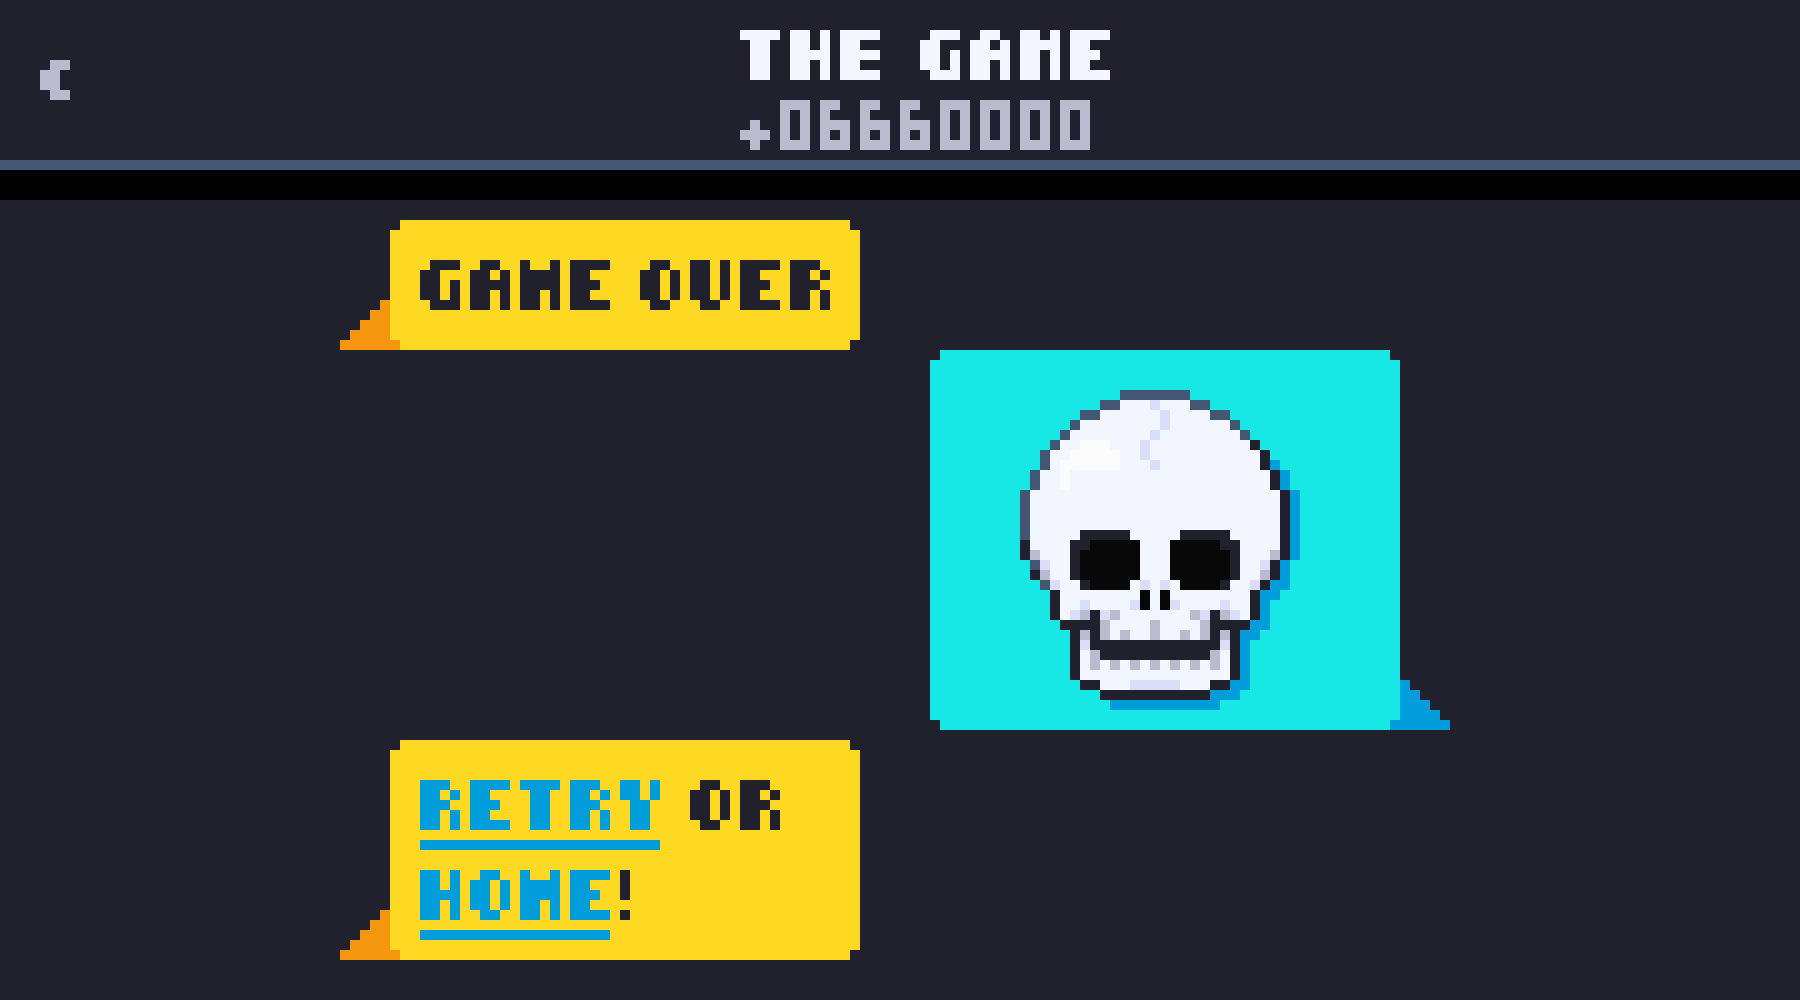
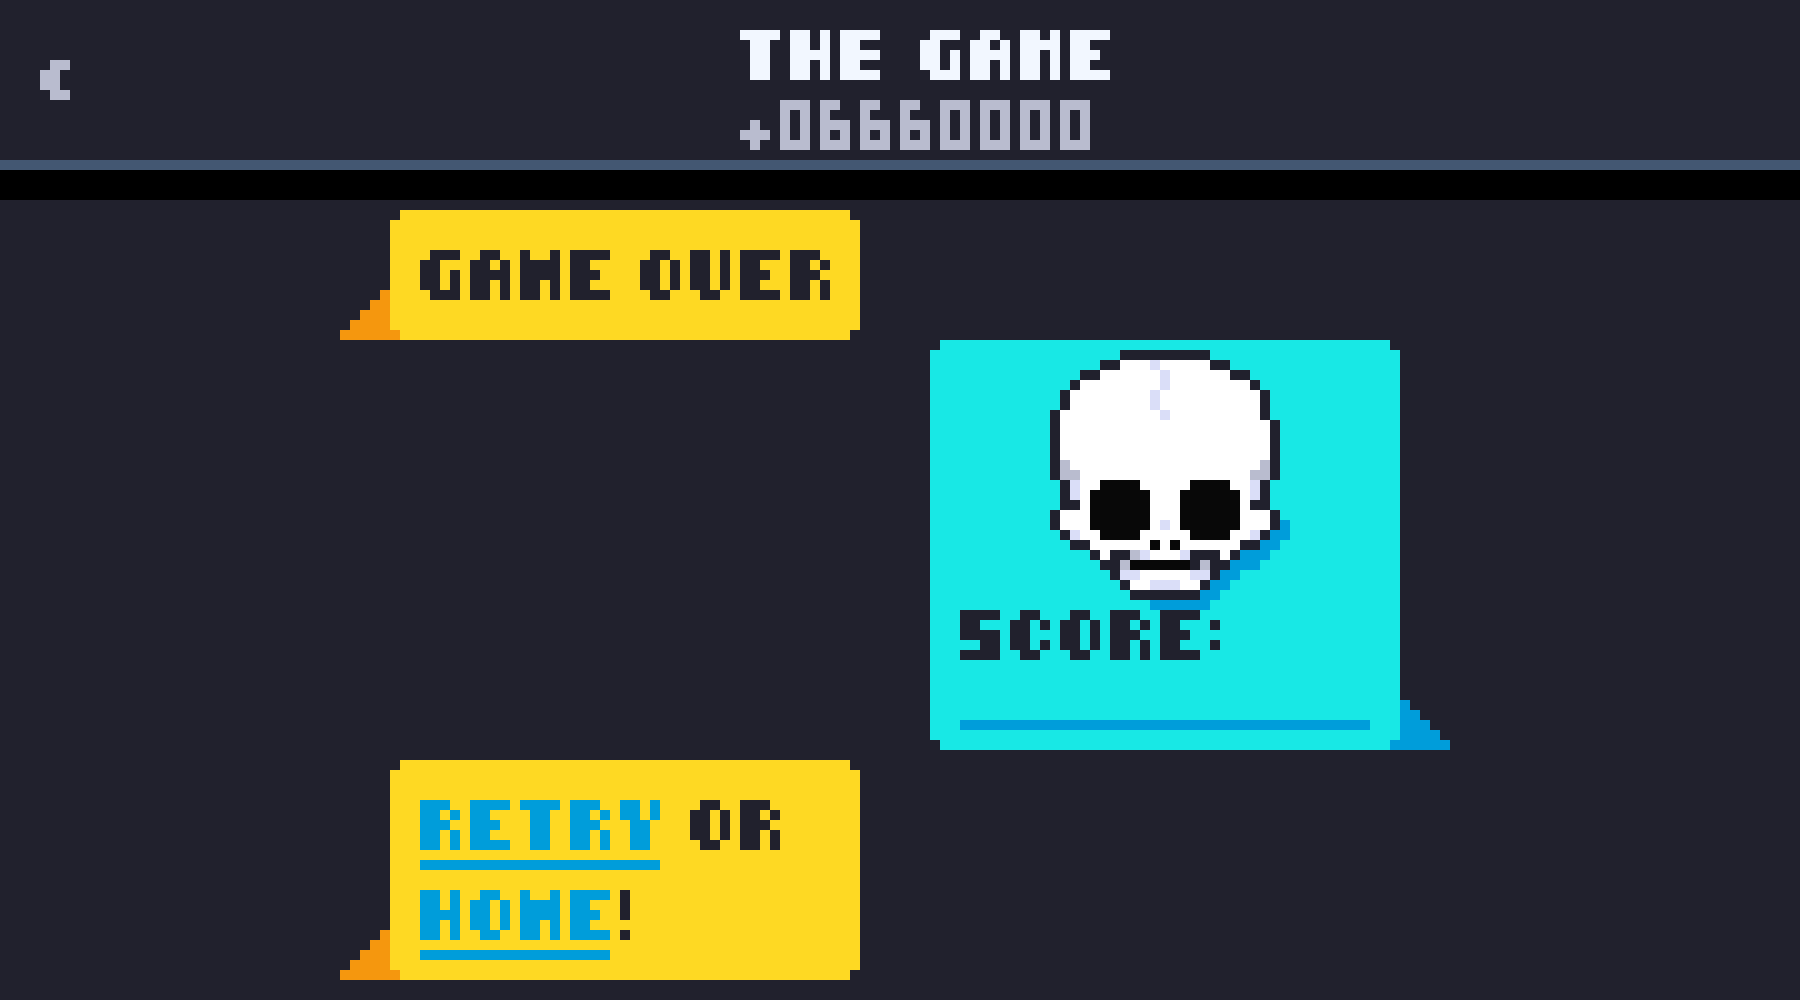
petits changement

Changed region(s): [[0.4978, 0.341, 0.8089, 0.775], [0.1867, 0.713, 0.4978, 0.992], [0.1867, 0.186, 0.4667, 0.372]]

diff --git a/rookieTeamGameProject/Assets/T3Assets/Scripts/T3_GameController.cs b/rookieTeamGameProject/Assets/T3Assets/Scripts/T3_GameController.cs
@@ -13,7 +13,8 @@ public class T3_GameController : MonoBehaviour
     public GameObject startScreen;
     public GameObject tutoScreen;
     public GameObject pausePanel;
-    public GameObject score;
+    public GameObject scoreInGame;
+    public GameObject scoreDeath;
 
     private bool isStartScreenActive = true;
     private bool isTutoScreenPassed = false;
@@ -73,7 +74,7 @@ public class T3_GameController : MonoBehaviour
 
     public void RetryButton()
     {
-        score.GetComponent<Text>().text = "0";
+        scoreInGame.GetComponent<Text>().text = "0";
         SceneManager.LoadScene(SceneManager.GetActiveScene().name);
         Time.timeScale = 1;
     }
@@ -82,6 +83,7 @@ public class T3_GameController : MonoBehaviour
     {
         Time.timeScale = 0;
         defeatPanel.SetActive(true);
+        scoreDeath.GetComponent<Text>().text = scoreInGame.GetComponent<Text>().text;
         hudPanel.SetActive(false);
     }
 

diff --git a/rookieTeamGameProject/Assets/T3Assets/Scripts/T3_chatBox.cs b/rookieTeamGameProject/Assets/T3Assets/Scripts/T3_chatBox.cs
@@ -319,6 +319,7 @@ public class T3_chatBox : MonoBehaviour
                     if (bomb.name == "TNT(Clone)" || bomb.name == "Smile(Clone)" || bomb.name == "Wink(Clone)" || bomb.name == "Laugh(Clone)" || bomb.name == "Shocked(Clone)" || bomb.name == "Cry(Clone)" || bomb.name == "Mad(Clone)" || bomb.name == "Coeur(Clone)" || bomb.name == "Blaze(Clone)" || bomb.name == "Malice(Clone)" || bomb.name == "Love(Clone)")
                     {
                         Destroy(bomb);
+                        T3_SoundController.Instance.MakeTNTSound();
                     }
                 }
             }

diff --git a/rookieTeamGameProject/Assets/T3Assets/Scripts/T3_SoundController.cs b/rookieTeamGameProject/Assets/T3Assets/Scripts/T3_SoundController.cs
@@ -11,6 +11,7 @@ public class T3_SoundController : MonoBehaviour
     public AudioClip smileyDeath;
     public AudioClip takeDamage;
     public AudioClip restoreLife;
+    public AudioClip tnt;
     void Awake()
     {
         if (Instance != null)
@@ -38,6 +39,11 @@ public class T3_SoundController : MonoBehaviour
     public void MakeRestoreLifeSound()
     {
         MakeSound(restoreLife);
+    }
+    
+    public void MakeTNTSound()
+    {
+        MakeSound(tnt);
     }
 
     private void MakeSound(AudioClip originalClip)
